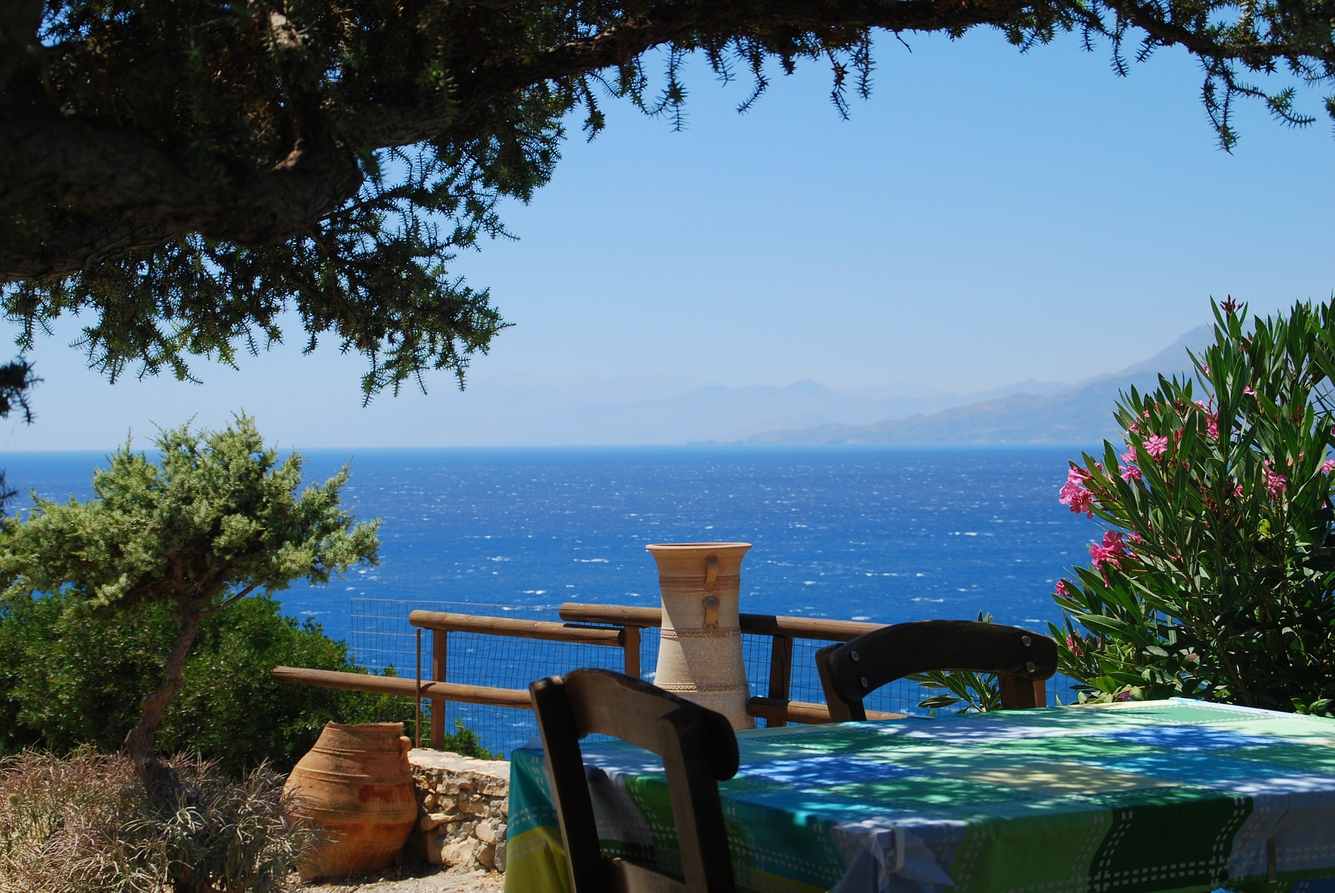
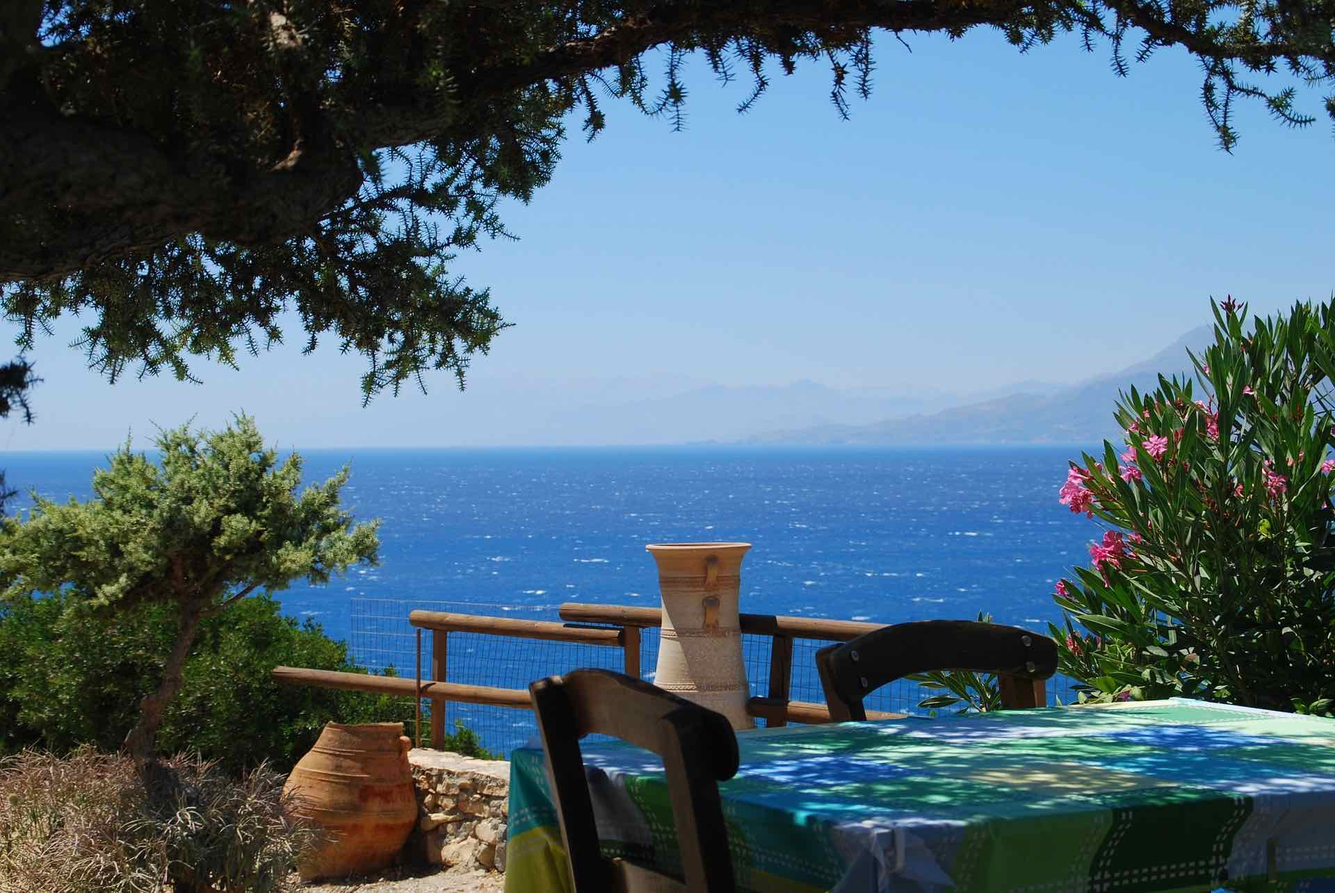
Add image rezied for improved performance

diff --git a/static/css/base.css b/static/css/base.css
@@ -9,7 +9,3 @@ body {
     background: radial-gradient(ellipse at center, #FFFFFF 0%, #ABCAD2 100%);
     }
 
-#contactgrid{
-  display: grid; 
-  grid-template-columns: repeat(2, 1fr);
-}
